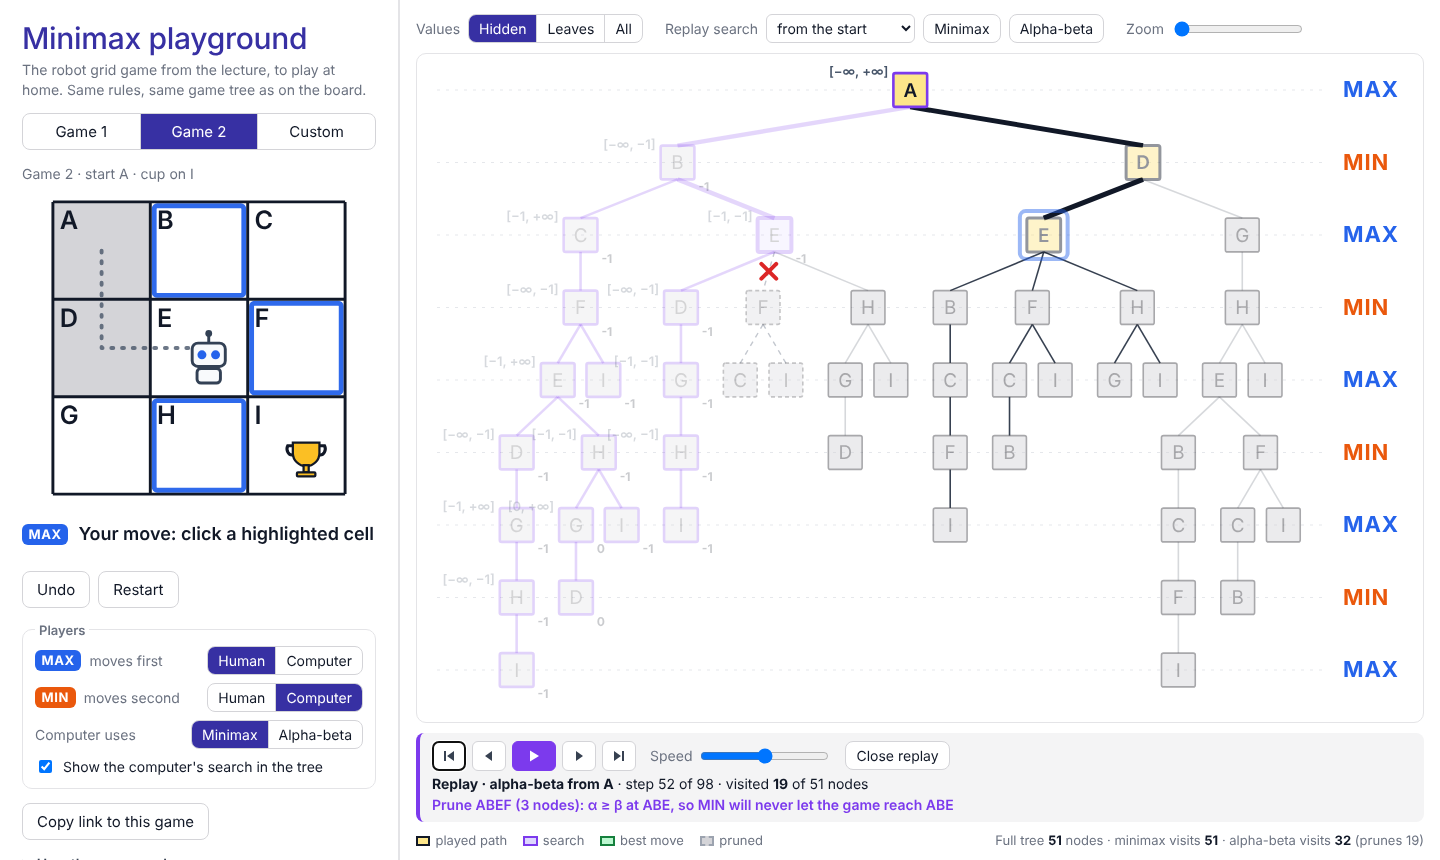
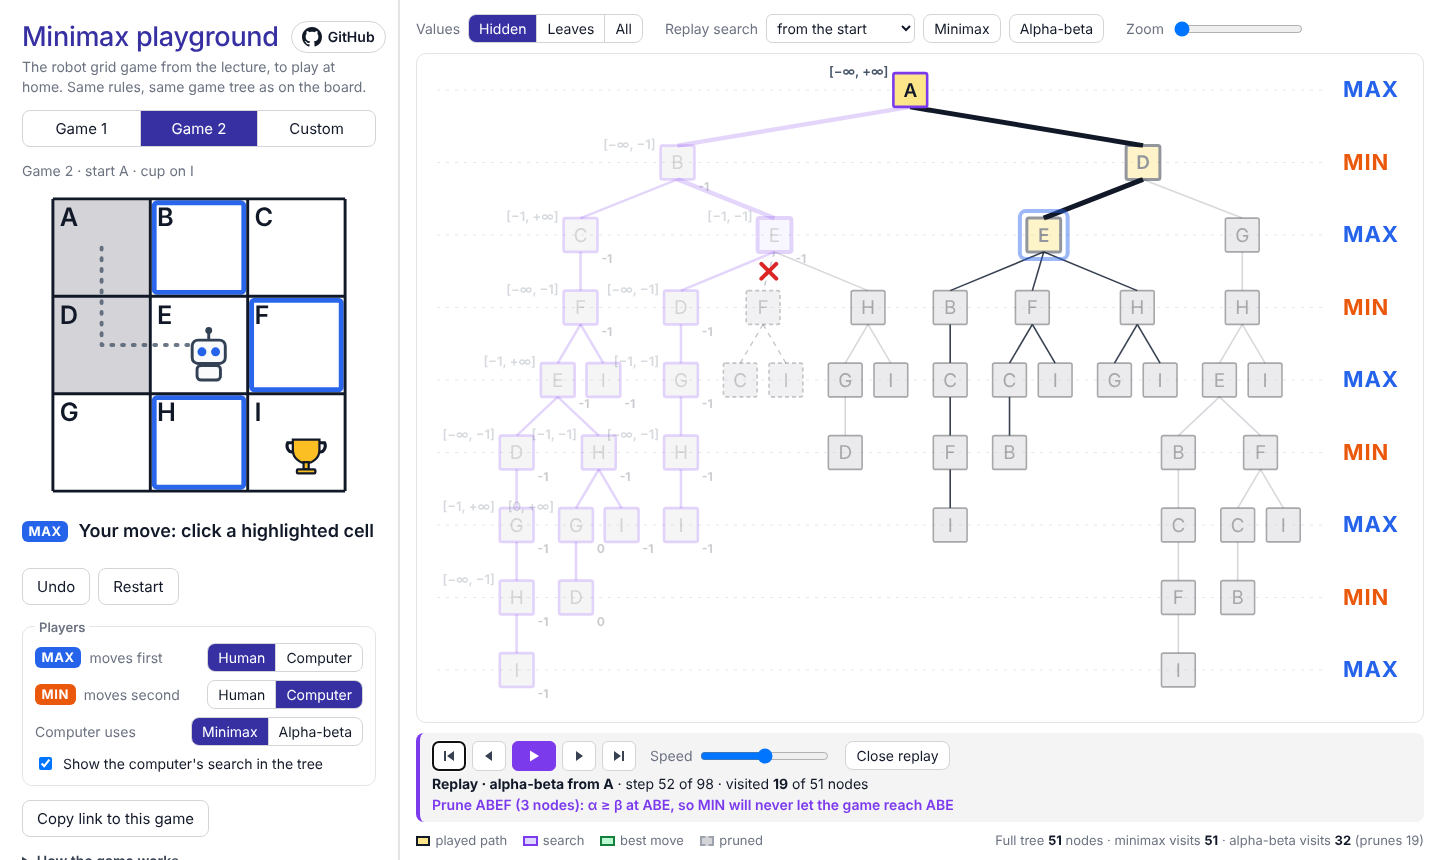
Playground: GitHub link in the header
A "GitHub" button with the GitHub mark next to the title links to the
repository; below 370px it shows only the mark. The toolbar groups now
wrap, so the page no longer scrolls sideways on 320px phones.

Claude-Session: https://claude.ai/code/session_01BQXoqmWrxHpPQf1zSd5hn8

diff --git a/web/src/play/Play.svelte b/web/src/play/Play.svelte
@@ -22,6 +22,7 @@
     validate,
   } from '../lib/game.js';
 
+  const REPO = 'https://github.com/StanMar-bit/robot-minimax';
   const colors = { MAX: '#2563eb', MIN: '#ea580c' };
   const SPEEDS = [1200, 700, 400, 220, 110, 45, 15]; // ms per trace event
   const ZOOMS = [0, 20, 30, 44, 64]; // px per leaf; 0 = fit the tree to the panel
@@ -401,7 +402,17 @@
 <main class="play">
   <section class="side">
     <header>
-      <h1>Minimax playground</h1>
+      <div class="title">
+        <h1>Minimax playground</h1>
+        <a class="repo" href={REPO} target="_blank" rel="noopener" title="Source code on GitHub">
+          <svg viewBox="0 0 16 16" width="20" height="20" aria-hidden="true">
+            <path
+              d="M8 0C3.58 0 0 3.58 0 8c0 3.54 2.29 6.53 5.47 7.59.4.07.55-.17.55-.38 0-.19-.01-.82-.01-1.49-2.01.37-2.53-.49-2.69-.94-.09-.23-.48-.94-.82-1.13-.28-.15-.68-.52-.01-.53.63-.01 1.08.58 1.23.82.72 1.21 1.87.87 2.33.66.07-.52.28-.87.51-1.07-1.78-.2-3.64-.89-3.64-3.95 0-.87.31-1.59.82-2.15-.08-.2-.36-1.02.08-2.12 0 0 .67-.21 2.2.82.64-.18 1.32-.27 2-.27.68 0 1.36.09 2 .27 1.53-1.04 2.2-.82 2.2-.82.44 1.1.16 1.92.08 2.12.51.56.82 1.27.82 2.15 0 3.07-1.87 3.75-3.65 3.95.29.25.54.73.54 1.48 0 1.07-.01 1.93-.01 2.2 0 .21.15.46.55.38A8.013 8.013 0 0016 8c0-4.42-3.58-8-8-8z"
+            />
+          </svg>
+          <span>GitHub</span>
+        </a>
+      </div>
       <p class="sub">The robot grid game from the lecture, to play at home. Same rules, same game tree as on the board.</p>
     </header>
 
@@ -642,9 +653,34 @@
   .side > * {
     flex-shrink: 0;
   }
+  .title {
+    display: flex;
+    align-items: center;
+    justify-content: space-between;
+    gap: 12px;
+  }
+  .repo {
+    flex: none;
+    display: inline-flex;
+    align-items: center;
+    gap: 6px;
+    padding: 5px 10px;
+    border: 1px solid #d4d4d8;
+    border-radius: 999px;
+    color: var(--ink);
+    fill: var(--ink);
+    font-size: 14px;
+    font-weight: 600;
+    text-decoration: none;
+  }
+  .repo:hover,
+  .repo:focus-visible {
+    background: var(--panel);
+  }
   header h1 {
     margin: 0;
-    font-size: 30px;
+    font-size: 27px;
+    white-space: nowrap;
     font-weight: 500;
     color: var(--accent);
     letter-spacing: -0.01em;
@@ -845,6 +881,7 @@
   }
   .group {
     display: flex;
+    flex-wrap: wrap;
     align-items: center;
     gap: 8px;
   }
@@ -953,6 +990,14 @@
     background: #d4d4d8;
     border-style: dashed;
     border-color: #9ca3af;
+  }
+  @media (max-width: 370px) {
+    .repo span {
+      display: none;
+    }
+    header h1 {
+      font-size: 24px;
+    }
   }
   @media (max-width: 900px) {
     .play {
